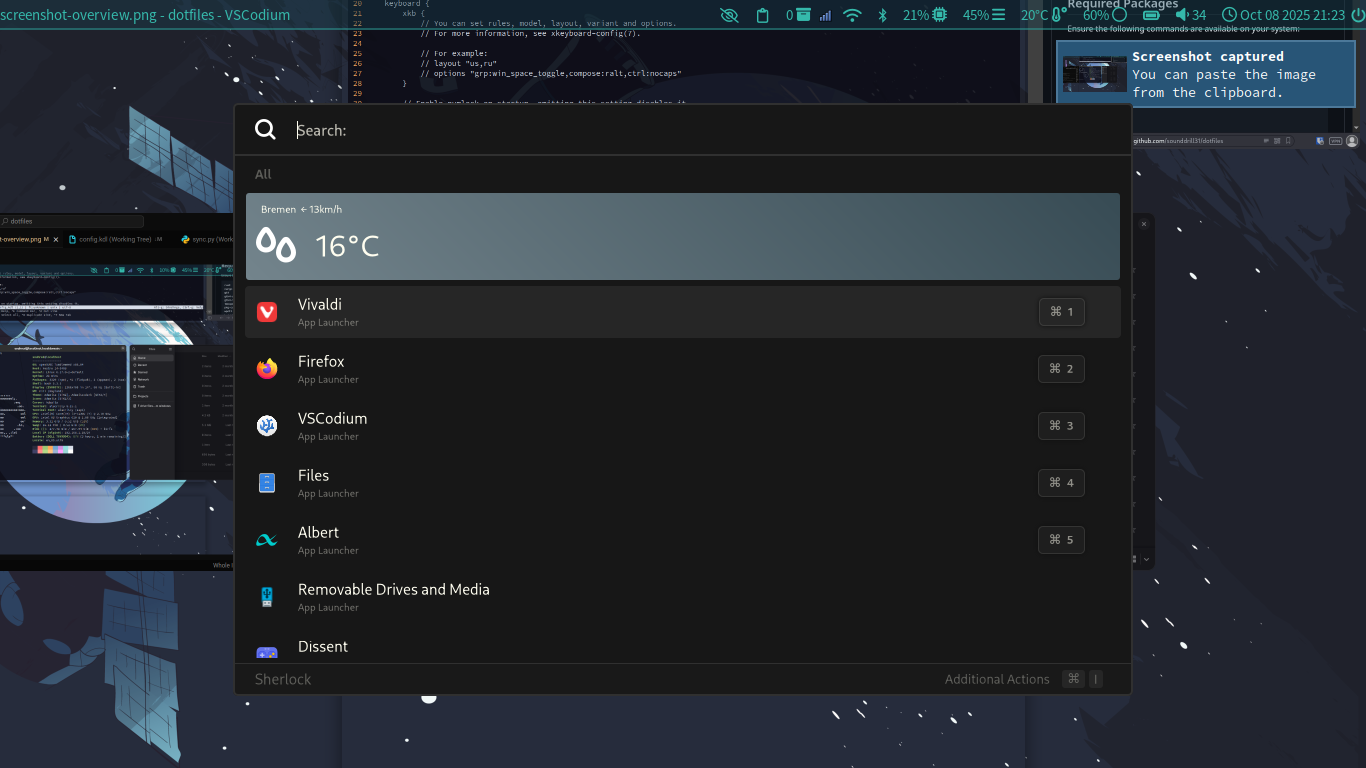
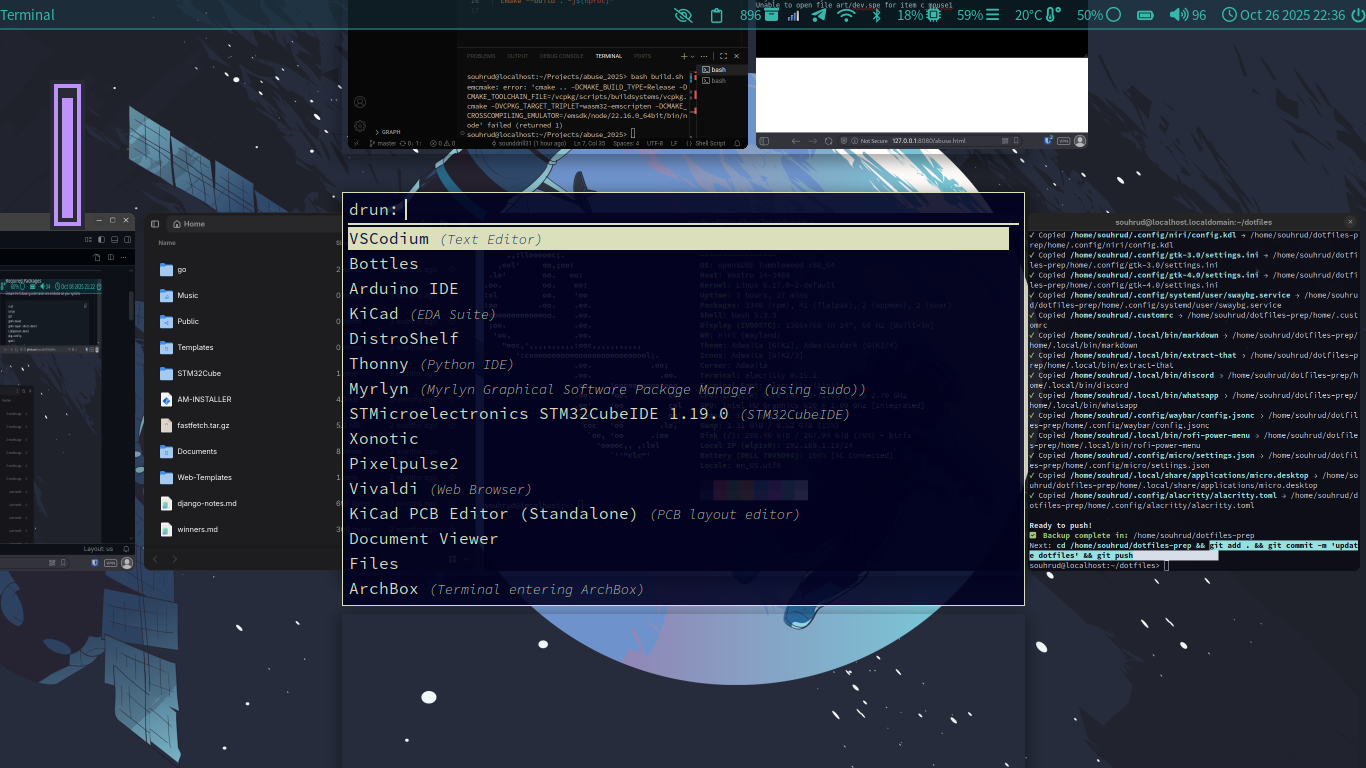
Do not use sherlock

diff --git a/README.md b/README.md
@@ -10,9 +10,8 @@ Yes, I use micro over nano, \*vi\*, emacs, etc.
 > If you edit  ~/.config/systemd/user/swaybg.service, remember to reload the rules with: `systemctl --user daemon-reload`
 
 ## Preview
-<img width="1366" height="768" alt="niri setup with a volume bar, some apps opened, and a fastfetch" src="./assets/screenshot-overview.png" />
 
-<img width="1366" height="768" alt="niri setup with a sherlock and a few apps open" src="./assets/overview-with-launcher.png" />
+<img width="1366" height="768" alt="niri setup with rofi and a few apps open" src="./assets/overview-with-launcher.png" />
 
 
 ## Required Packages
@@ -88,8 +87,7 @@ python3 backup.py
 - Waybar
 - Gnome Files
 - Alacritty
-- Sherlock for primary launcher (Mod+D) and clipboard(Mod+V)
-- Rofi for secondary launcher(Mod+Shift+D, backup) and clipboard(Mod+Alt+V)
+- Rofi for launcher(Mod+D) and clipboard(Mod+V)
 - Vivaldi, installed from flatpak
 - Firefox
 - Swaylock, swaybg
